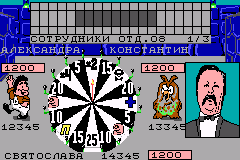
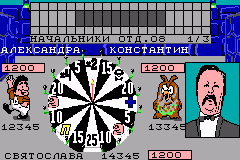
Use white player names and omit first-round rank arrows

Changed region(s): [[0.0, 0.2188, 0.35, 0.3438], [0.4375, 0.2812, 0.7875, 0.3438], [0.6417, 0.0625, 0.7, 0.1875]]

diff --git a/scripts/test-standings.py b/scripts/test-standings.py
@@ -22,7 +22,7 @@ def crop(e, x, y, width, height):
                     for row in range(height))
 
 
-def frame(rule, before, after, winner=-1, shootout=False, rounds=None, humans=3):
+def frame(rule, before, after, winner=-1, shootout=False, rounds=None, humans=3, round_index=0):
     e = Emulator()
     m['options'](e, humans)
     put(e, 'prefs', 4, rule)
@@ -35,6 +35,7 @@ def frame(rule, before, after, winner=-1, shootout=False, rounds=None, humans=3)
         put(e, 'match', 6 + p, before[p] if rule == 2 else 0)
         e.poke(9 + p, after[p] if rule != 2 else (3 - p) * 10000)
     put(e, 'match', 9, int(shootout))
+    e.poke(4, round_index)
     e.poke(5, winner if winner >= 0 else 2)
     e.poke(79, int(winner >= 0))
     e.poke(3, 9)
@@ -64,14 +65,15 @@ def main():
         ('repeat-shootout', 0, [500, 100, 500], [500, 100, 500], -1, True),
         ('five-digits', 1, [10000, 20000, 30000], [99999, 20000, 30000], 0, False),
     ]
-    for name, rule, before, after, winner, shootout in cases:
-        e = frame(rule, before, after, winner, shootout)
+    for case, round_index in ((case, index) for case in cases for index in (0, 1)):
+        name, rule, before, after, winner, shootout = case
+        e = frame(rule, before, after, winner, shootout, round_index=round_index)
         old = sorted((2, 0, 1), key=lambda p: -before[p])
         order = sorted((2, 0, 1), key=lambda p: -after[p])
         for place, p in enumerate(order):
             y = 80 + place * 22
             assert crop(e, 50, y, 80, 14) == reference[p], (name, 'name order', p)
-            direction = (old.index(p) > place) - (old.index(p) < place)
+            direction = ((old.index(p) > place) - (old.index(p) < place)) if round_index or shootout else 0
             for row in range(5):
                 half = row if direction > 0 else 4 - row
                 for x in range(33, 42):
@@ -80,11 +82,11 @@ def main():
         state = read(e, 'match', 64)
         e.run(120)
         assert read(e, 'match', 64) == state, (name, 'redraw changed standings')
-        e.screenshot(f'standings-{name}.png')
+        e.screenshot(f'standings-{name}-round-{round_index+1}.png')
         tap(e, 8)
         assert e.state()[3] == (15 if shootout else 17), (name, 'continuation')
         e.close()
-        checks.append(dict(case=name, order=order, triangles=True))
+        checks.append(dict(case=name, round=round_index+1, order=order, movement_shown=bool(round_index or shootout)))
 
     report = dict(rom_sha256=hashlib.sha256((ROOT / 'build/gba/pole.gba').read_bytes()).hexdigest(), checks=checks)
     (ROOT / 'docs/verification/standings-tests.json').write_text(json.dumps(report, indent=2) + '\n')

diff --git a/scripts/test-player-layout.py b/scripts/test-player-layout.py
@@ -33,7 +33,7 @@ for rule in range(3):
    panel=s.crop(e,0,150,240,10)
    if viewer in panels:assert panel==panels[viewer],(rule,viewer,'actor changed footer')
    panels[viewer]=panel
-   for side in range(2):check_name(side,(viewer+side+1)%3,7)
+   for side in range(2):check_name(side,(viewer+side+1)%3,15)
   e.screenshot(f'player-layout-{rule}-viewer-{viewer}.png')
  assert len(set(panels.values()))==3
  s.m['setmp'](e,2,2);redraw();badge=s.crop(e,1,63,44,10)
